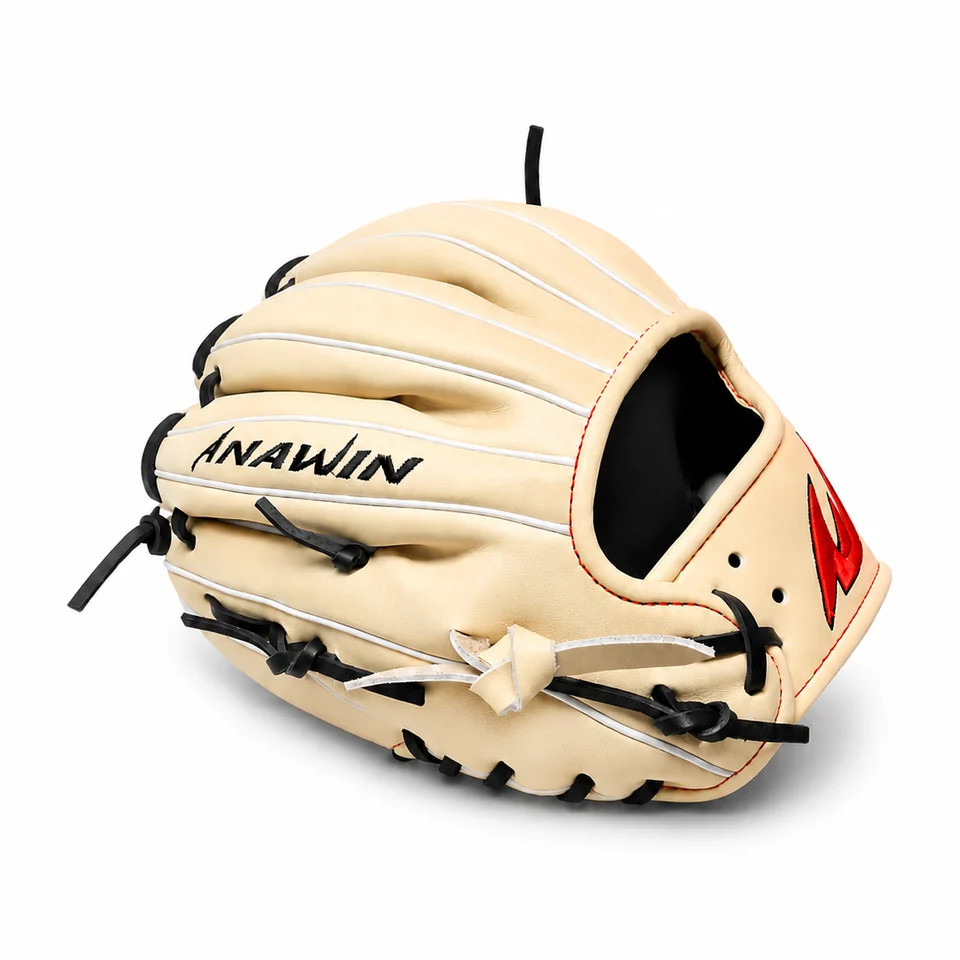
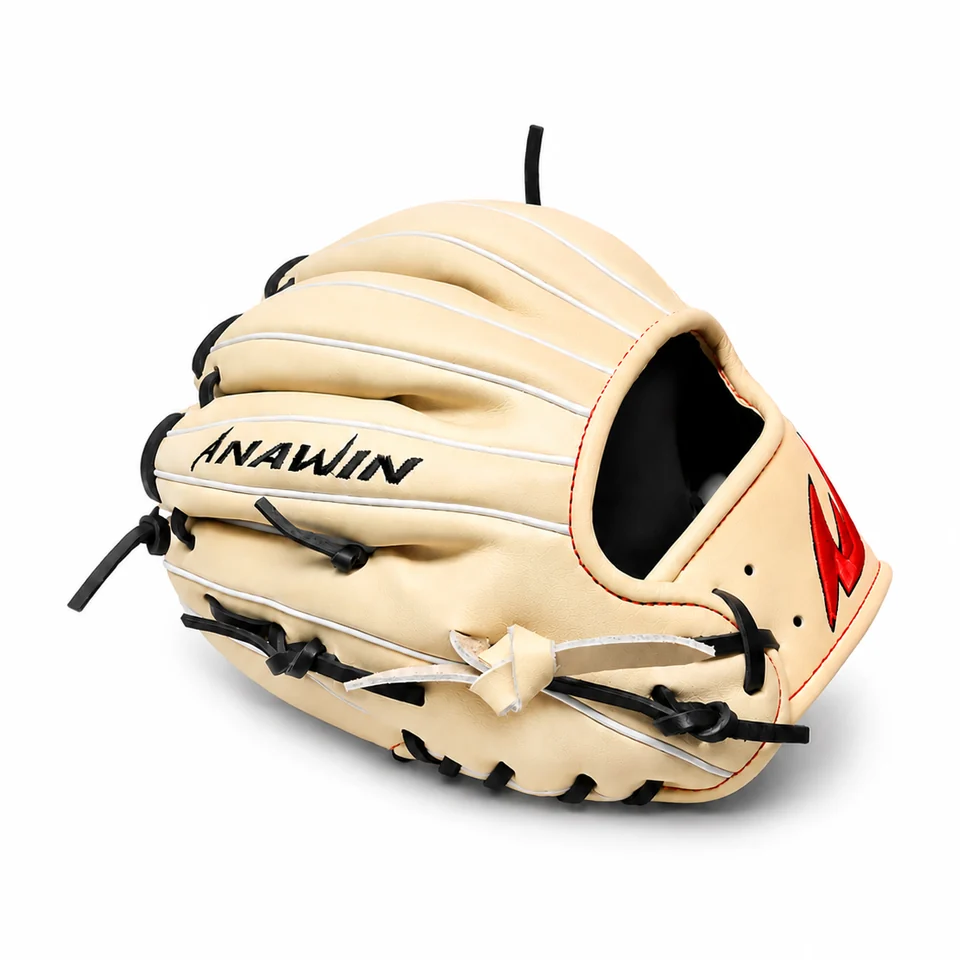
Update CM24 finger-side photo

diff --git a/src/catalog.js b/src/catalog.js
@@ -201,7 +201,7 @@ const fullSizeAngles = Object.freeze([
 const fullSizePhotoSizes = Object.freeze({
   mint: { back: 1254, palm: 1202, side: 1254, 'finger-side': 1254 },
   black: { back: 1272, palm: 1276, side: 1442, 'finger-side': 1207 },
-  camel: { back: 1208, palm: 1245, side: 1223, 'finger-side': 1119 },
+  camel: { back: 1208, palm: 1245, side: 1223, 'finger-side': 1117 },
   orange: { back: 1195, palm: 1322, side: 1206, 'finger-side': 1438 }
 });
 const fullSizePhotos = (color, tone) => fullSizeAngles.map(([angle, view]) => ({
